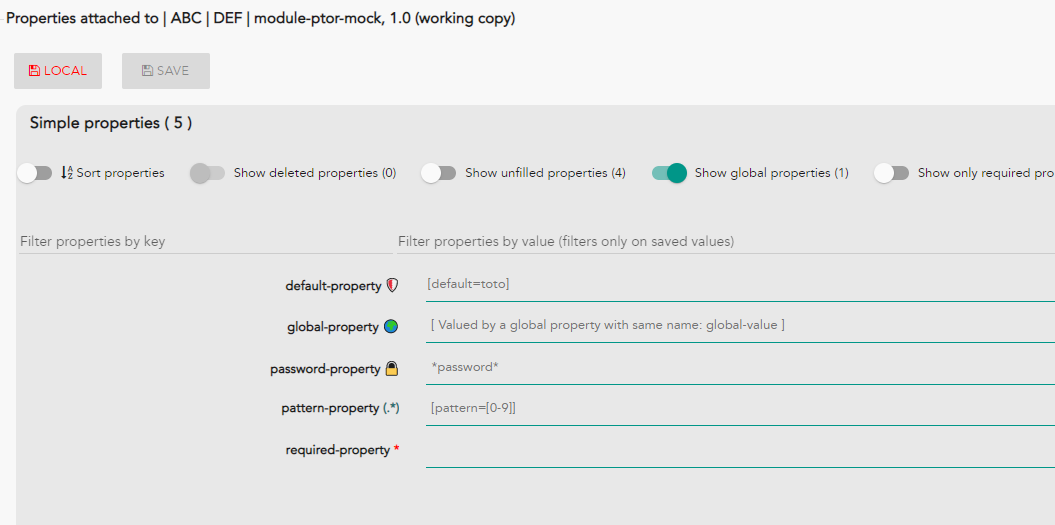
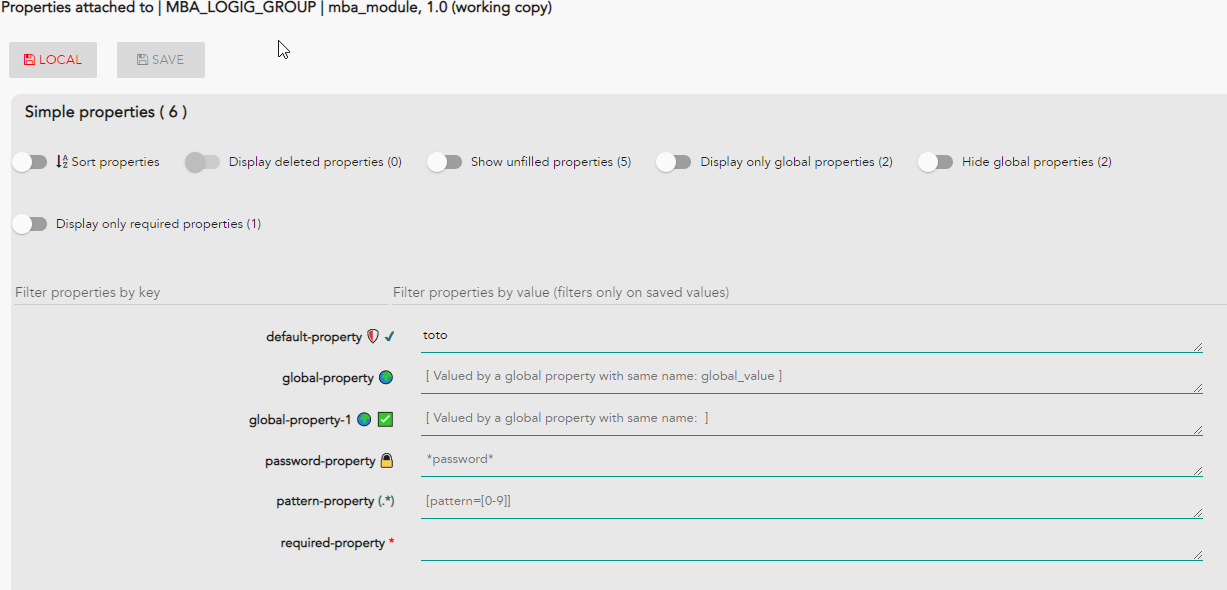
Fix #153 Bouton de copie de groupe logique corrections suite revue

diff --git a/src/app/properties/simple-properties-list.html b/src/app/properties/simple-properties-list.html
@@ -88,9 +88,20 @@
                                     >{{key_value_property.name}} <span ng-show="key_value_property.required" class="property-required">*</span>
                                 <span ng-if="key_value_property.pattern"><span class="pattern-icon">(.*)</span><md-tooltip md-direction="left">{{key_value_property.tooltip}}</md-tooltip></span>
                                 <span ng-if="key_value_property.defaultValue">🛡<md-tooltip md-direction="left">{{key_value_property.tooltip}}</md-tooltip></span>
+                                <span ng-if="isValuationEqualsDefaultValuation(key_value_property)" class="check-mark-icon">
+                                    ✔
+                                    <md-tooltip md-direction="left">
+                                        {{'modules.propertiesList.tooltip.defaultValueEqualityWithValue' | translate : {defaultValue:key_value_property.defaultValue, value:key_value_property.value} }}
+                                    </md-tooltip>
+                                </span>
                                 <span ng-if="key_value_property.password">🔒<md-tooltip md-direction="left">{{key_value_property.tooltip}}</md-tooltip></span>
                                 <span ng-if="key_value_property.valuedByAGlobal">🌍<md-tooltip md-direction="left">{{key_value_property.tooltip}}</md-tooltip></span>
-                                <i class="fa fa-info-circle e2e-property-tooltip" ng-if="key_value_property.tooltip"><md-tooltip md-direction="left">{{key_value_property.tooltip}}</md-tooltip></i>
+                                <span ng-if="isGlobalValueEqualsOverloadedValue(key_value_property)">
+                                    ✅
+                                    <md-tooltip md-direction="left">
+                                        {{'modules.propertiesList.tooltip.globalValueEqualityWithValue' | translate : {globalValue:key_value_property.globalValue, value:key_value_property.value} }}
+                                    </md-tooltip>
+                                </span>
                             </label>
                         </div>
                     </div>

diff --git a/test/bdd/glue/scenarios/platforms/module-properties-list.js b/test/bdd/glue/scenarios/platforms/module-properties-list.js
@@ -70,3 +70,21 @@ Then('the tooltip of property {string} should contain', async function (property
         await assert.elementAttributeContainsText(propertyLabel, 'aria-label', `${ instanceName } = ${ instancePropertyValue }`);
     }
 });
+
+Then('only the property {string} and not {string} has dedicated icon check mark button', async function (firstGlobalProperty, secondGlobalProperty) {
+    const firstGlobalPropertyElement = await get.elementById(`simple-properties-list_key-property-input-${ firstGlobalProperty }`);
+    const secondGlobalPropertyElement = await get.elementById(`simple-properties-list_key-property-input-${ secondGlobalProperty }`);
+    await assert.containsText(firstGlobalPropertyElement, '🌍');
+    await assert.containsText(secondGlobalPropertyElement, '🌍');
+    await assert.containsText(firstGlobalPropertyElement, '✅');
+    await assert.noContainText(secondGlobalPropertyElement, '✅');
+});
+
+Then('only the property {string} and not {string} has dedicated icon check mark', async function (firstSimpleProperty, secondSimpleProperty) {
+    const firstSimplePropertyElement = await get.elementById(`simple-properties-list_key-property-input-${ firstSimpleProperty }`);
+    const secondSimplePropertyElement = await get.elementById(`simple-properties-list_key-property-input-${ secondSimpleProperty }`);
+    await assert.containsText(firstSimplePropertyElement, '🛡');
+    await assert.containsText(secondSimplePropertyElement, '🛡');
+    await assert.containsText(firstSimplePropertyElement, '✔');
+    await assert.noContainText(secondSimplePropertyElement, '✔');
+});

diff --git a/docs/valuations.html b/docs/valuations.html
@@ -237,6 +237,8 @@
                                                 <li>🌍 This icon describe a property valued by global property</li>
                                                 <li>🛡 This icon describe a property that have default value</li>
                                                 <li><span class="pattern-icon">(.*)</span> This icon describe a pattern property</li>
+                                                <li>✔ This icon describe a property that have default value equal with overloaded value</li>
+                                                <li>✅ This icon describe a property that have overloaded value equal with global property value</li>
                                             </ul>
                                         </div>
                                     </div>

diff --git a/src/app/properties/properties.js b/src/app/properties/properties.js
@@ -1229,6 +1229,14 @@ angular.module('hesperides.properties', [ 'hesperides.diff', 'hesperides.localCh
                         const extractPrefix = selectedProperty.value.split('{{')[0];
                         selectedProperty.value = `${ extractPrefix }{{ ${ propertyName } }}`;
                     };
+
+                    scope.isValuationEqualsDefaultValuation = function (property) {
+                        return !_.isEmpty(property.defaultValue) && (_.isEqual(property.value, property.defaultValue));
+                    };
+
+                    scope.isGlobalValueEqualsOverloadedValue = function (property) {
+                        return property.valuedByAGlobal && (_.isEqual(property.value, property.globalValue));
+                    };
                 },
             };
         },

diff --git a/test/bdd/glue/helpers/assert.js b/test/bdd/glue/helpers/assert.js
@@ -44,6 +44,10 @@ exports.containsText = async function (elem, text) {
     await expect(elem.getText()).to.eventually.have.string(text);
 };
 
+exports.noContainText = async function (elem, text) {
+    await expect(elem.getText()).to.eventually.not.contain.string(text);
+};
+
 exports.elementAttributeContainsText = async function (element, attribute, text) {
     await expect(element.getAttribute(attribute)).to.eventually.have.string(text);
 };

diff --git a/src/app/properties/properties.css b/src/app/properties/properties.css
@@ -159,6 +159,10 @@ md-content.properties-container {
     font-weight: bold;
   }
 
+.check-mark-icon {
+    color: #266f71;
+    font-weight: bold;
+}
 
 .PropertiesList__valueAutocomplete {
     padding-inline-start: 3%;

diff --git a/README.md b/README.md
@@ -45,6 +45,15 @@ $ npm start
 
 It should launch a server available at http://localhost:80 using a backend on http://localhost:8080
 
+Doc
+===
+
+```shell 
+$ npm run serve-doc
+````
+
+It should launch a server-doc at  http://127.0.0.1:8081
+
 Tests
 =====
 
